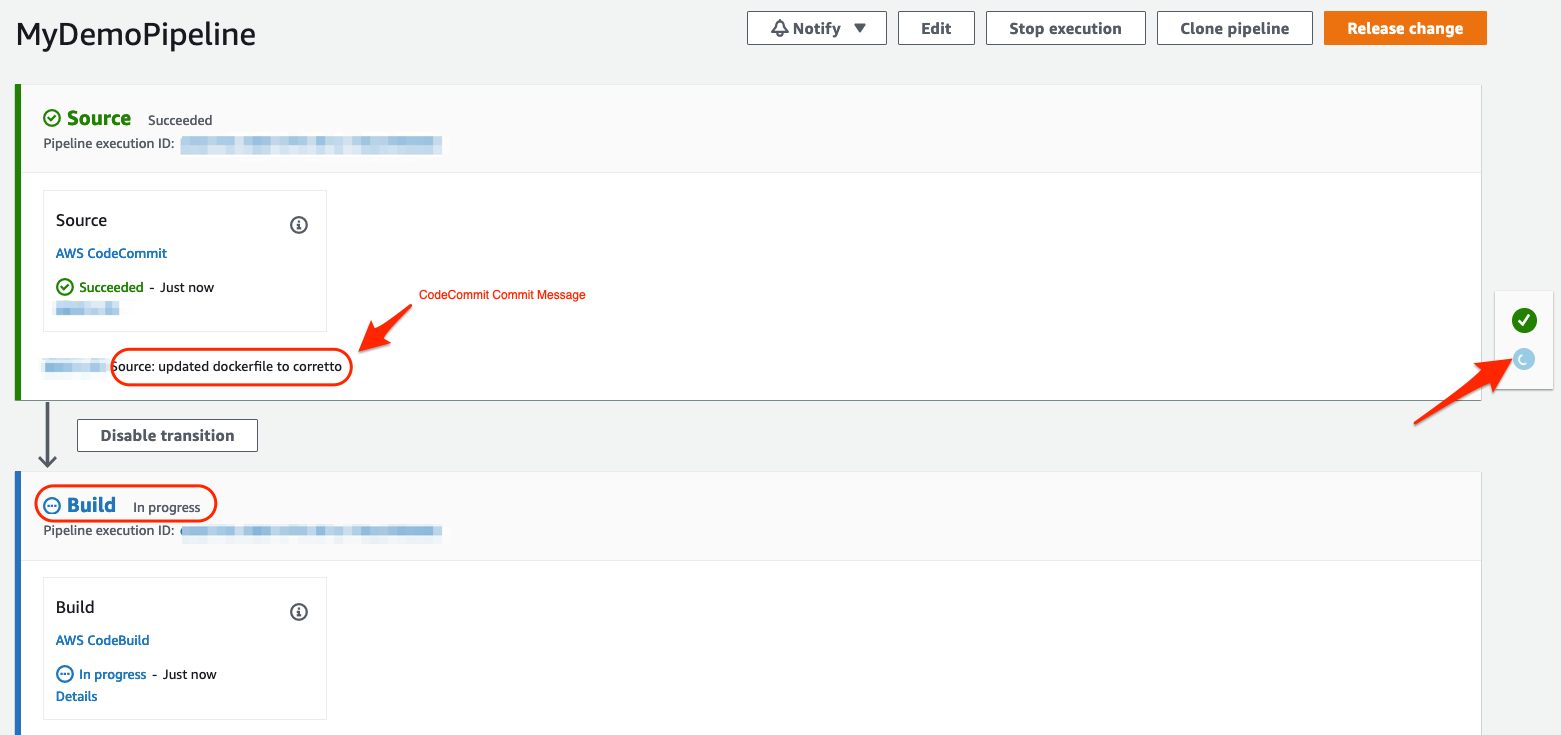
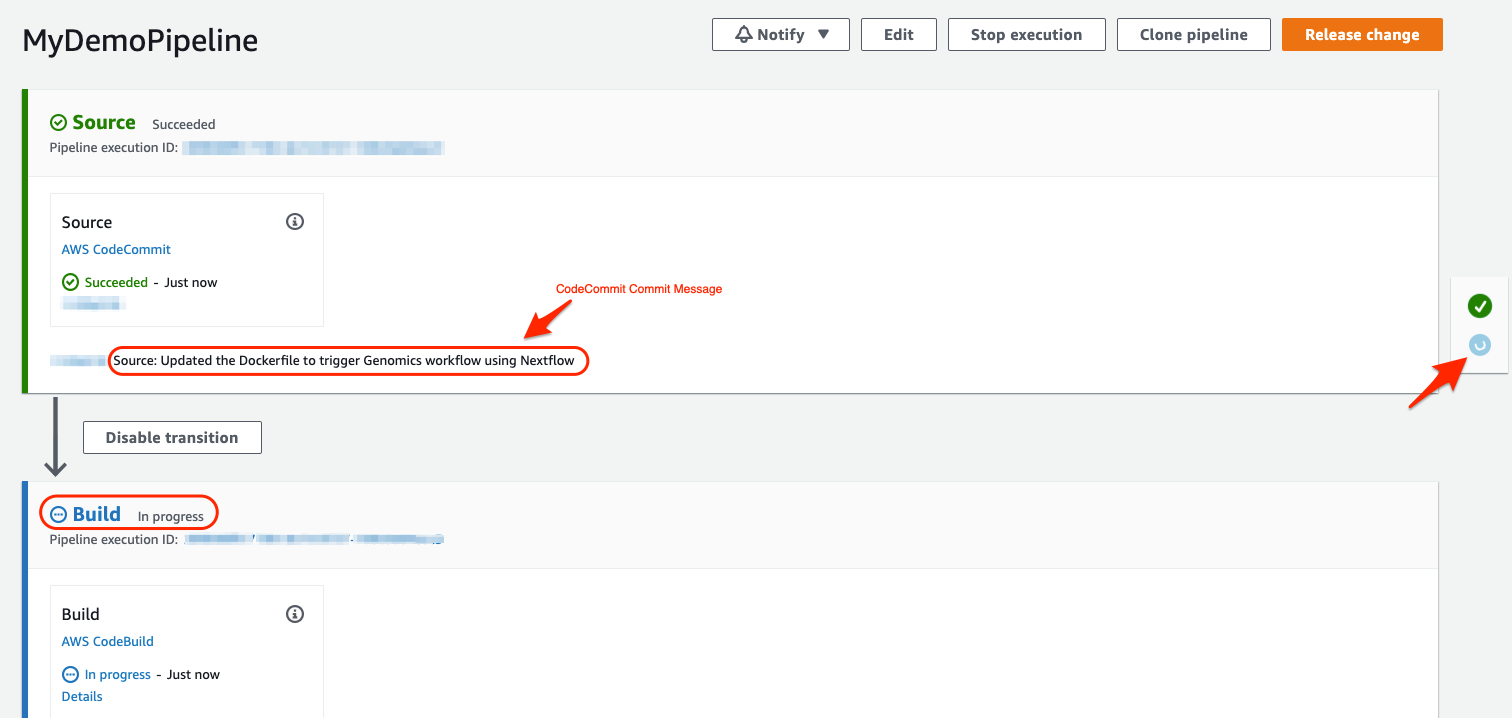
Updated the Lab3 based on feedback

diff --git a/content/04-cicd-pipeline/_index.md b/content/04-cicd-pipeline/_index.md
@@ -8,36 +8,40 @@ tags: ["CI/CD", "AWS Developer Tools", "DevOps"]
 
 ![devops_logo](/images/cicd/devops-logo.png)
 
+HPC resources have complex and dynamic software needs that are challenging to manage and maintain. Users often want the latest software available for their research and development which drives the need for frequent installation and updates. Administrators currently address these complex software needs with package managers such as Lmod, Easybuild or Spack. However, even with these tools software management in an HPC environment includes manual and error-prone steps. Continuous integration, delivery, and deployment (CICD) is widely used in DevOps communities, as it allows to deploy rapidly-changing hardware and software resources. One can build a CICD pipeline to automatically build and/or deploy their HPC application either in the form of containers or as a custom image with all the software dependencies installed. Integrating CICD practices into HPC workflows increases the potential for delivering high quality and reliable software. 
+
+
 [AWS Developer Tools](https://aws.amazon.com/products/developer-tools/) provides a list of services to host code, build, test, and deploy your applications quickly and effectively.  AWS services offered as part of the AWS Developer Tools suite helps remove the undifferentiated heavy lifting associated with DevOps adaptation and software development. You can build a continuous integration and delivery capability without managing servers or build nodes, and leverage Infrastructure as Code to provision and manage your cloud resources in a consistent and repeatable manner.
 
-### Benefits
-#### Minimize downtime
-Build highly available applications on a resilient cloud infrastructure and enable your teams to respond, adapt, and recover quickly from unexpected events.
+##### Benefits
++ **Minimize downtime**
 
-#### Automate CI/CD pipelines & Release software faster
+	Build highly available applications on a resilient cloud infrastructure and enable your teams to respond, adapt, and recover quickly from unexpected events.
 
-Remove error-prone manual processes and eliminate the need to babysit software releases. Use software release pipelines that encompass build, test, and deployment.
++ **Automate CI/CD pipelines & Release software faster**
 
-#### Increase developer productivity
+	Remove error-prone manual processes and eliminate the need to babysit software releases. Use software release pipelines that encompass build, test, and deployment.
 
-Manage services, provision resources, and automate development tasks without switching context or leaving your editor.
++ **Increase developer productivity**
 
-#### Monitor operations
+	Manage services, provision resources, and automate development tasks without switching context or leaving your editor.
 
-Build an observability dashboard to gain instant and continuous insight into your system’s operations.
++ **Monitor operations**
 
-#### Test and automate infrastructure
+	Build an observability dashboard to gain instant and continuous insight into your system’s operations.
 
-Combine infrastructure as code (IaC) with version control and automated, continuous integration to bring scalability and consistency to provisioning and management.
++ **Test and automate infrastructure**
+
+	Combine infrastructure as code (IaC) with version control and automated, continuous integration to bring scalability and consistency to provisioning and management.
 
 {{% notice info %}}This lab requires an AWS Cloud9 IDE. If you do not have an AWS Cloud9 IDE set up, complete sections *a. Sign in to the Console* through *d. Work with the AWS CLI* in the [**Getting Started in the Cloud**](/02-aws-getting-started.html) workshop.
 {{% /notice %}}
 
 In this lab, you are introduced to [AWS Developer Tools](https://aws.amazon.com/products/developer-tools/) and how to use services like AWS CodeCommit, AWS CodeBuild and AWS CodePipeline to automate application deployment with containers, CI/CD pipelines and container orchestrators . This workshop includes the following steps:
 
-- Create a repository in AWS CodeCommit
-- Create a build environment using AWS CodeBuild
-- Create a pipeline using AWS CodePipeline
-- Automate the build process with repository update
+1. Create a repository in AWS CodeCommit
+2. Create a build environment using AWS CodeBuild
+3. Create a pipeline using AWS CodePipeline
+4. Automate the build process with repository update
 
 

diff --git a/content/04-cicd-pipeline/02-codecommit-repo.md b/content/04-cicd-pipeline/02-codecommit-repo.md
@@ -9,35 +9,36 @@ tags = ["tutorial", "DeveloperTools", "CodeCommit"]
 {{% /notice %}}
 
 1. In the AWS Management Console search bar, type and select **Cloud9**.
-
+	
 2. Choose **open IDE** for the Cloud9 instance set up previously. It may take a few moments for the IDE to open. AWS Cloud9 stops and restarts the instance so that you do not pay compute charges when no longer using the Cloud9 IDE.
 
-3. Next, we'll use the AWS CLI to create a Git repository in [AWS CodeCommit](https://aws.amazon.com/codecommit/) and clone the empty repo in your Cloud9 environment.
+3. Next, we'll use the AWS Command Line Interface (CLI) to create a Git repository in [AWS CodeCommit](https://aws.amazon.com/codecommit/) and clone the empty repo in your Cloud9 environment.
 
-1. First verify AWS CLI is installed:
+4. Set AWS Region
 
 ```bash
-aws --version
+AWS_REGION=$(curl --silent http://169.254.169.254/latest/meta-data/placement/region)
+echo "export AWS_REGION=${AWS_REGION}"
 ```
 
-2. Next create your CodeCommit Repo:
+5. Next create your CodeCommit Repo:
 
-AWS CodeCommit is a secure, highly scalable, managed source control service that hosts private Git repositories.
+[AWS CodeCommit](https://aws.amazon.com/codecommit/) is a secure, highly scalable, managed source control service that hosts private Git repositories.
 
 ```bash
-aws codecommit create-repository --repository-name MyDemoRepo --repository-description "My demonstration repository" --tags Team=SC21
+aws codecommit create-repository --repository-name MyDemoRepo --repository-description "My demonstration repository" --tags Team=SC21 --region $AWS_REGION
 ```
 
-3. Get repository URL to clone:
+6. Get repository URL to clone:
 
 ```bash
-REPOURL=$(aws codecommit get-repository --repository-name MyDemoRepo --query repositoryMetadata.cloneUrlHttp --output text)
+REPOURL=$(aws codecommit get-repository --repository-name MyDemoRepo --query repositoryMetadata.cloneUrlHttp --output text --region $AWS_REGION)
 echo $REPOURL
 ```
 
 Verify `echo $REPOURL` outputs a repo url like: `https://git-codecommit.<region>.amazonaws.com/v1/repos/MyDemoRepo`
 
-4. Clone the repository in your Cloud9 terminal and cd into it:
+7. Clone the repository in your Cloud9 terminal and cd into it:
 
 ```bash
 $ git clone $REPOURL
@@ -47,7 +48,7 @@ Unpacking objects: 100% (4/4), 681 bytes | 227.00 KiB/s, done.
 $ cd MyDemoRepo/
 ```
 
-5. Now let's update the default branch from **master** to **main**:
+8. Now let's update the default branch from **master** to **main**:
 ```
 $ git branch -m master main
 ```

diff --git a/content/04-cicd-pipeline/03-docker-buildspec.md b/content/04-cicd-pipeline/03-docker-buildspec.md
@@ -7,16 +7,16 @@ tags = ["tutorial", "DeveloperTools", "CodeCommit"]
 
 In this section, you will create a Docker container for the application and a buildspec file in the CodeCommit repository created in the previous section
 
-A [buildspec](https://docs.aws.amazon.com/codebuild/latest/userguide/build-spec-ref.html) is a collection of build commands and related settings in YAML format. This file is used by [AWS CodeBuild](https://docs.aws.amazon.com/codebuild/latest/userguide/welcome.html) to automatically create an updated version of the container upon code changes. In the next section, you will dive deeper on what is CodeBuild and how to set it up as part of a pipeline. 
+A [buildspec](https://docs.aws.amazon.com/codebuild/latest/userguide/build-spec-ref.html) is a collection of build commands and related settings in YAML format. This file is used by [AWS CodeBuild](https://docs.aws.amazon.com/codebuild/latest/userguide/welcome.html) to automatically create an updated version of the container upon code changes. The buildspec file informs CodeBuild of all the actions that should be taken during a build run for your application. In the next section, you will dive deeper on what is CodeBuild and how to set it up as part of a pipeline. 
 
 
-1. cd to the CodeCommit repository created in the previous section:
+1. Confirm you are in the **MyDemoRepo** repository, if not enter into it:
 
 ```bash
 cd MyDemoRepo
 ```
 
-2. Create a Docker container for the application. We're going to use the [Amazon Linux container](https://gallery.ecr.aws/amazonlinux/amazonlinux) from [Amazon Elastic Container Registry (ECR) Public Gallery](https://docs.aws.amazon.com/AmazonECR/latest/public/public-gallery.html). Amazon Linux Docker container images contain a subset of the packages in the images for use on Amazon EC2 and as VMs in on-premises scenarios. To install additional packages, use yum.
+2. Create a Docker container for the application. We're going to use the [Amazon Linux container](https://gallery.ecr.aws/amazonlinux/amazonlinux) from [Amazon Elastic Container Registry (ECR) Public Gallery](https://docs.aws.amazon.com/AmazonECR/latest/public/public-gallery.html). Amazon Linux Docker container images contain a subset of the packages in the images for use on Amazon EC2 and as VMs in on-premises scenarios.
 
 ```bash
 cat > Dockerfile << EOF

diff --git a/content/04-cicd-pipeline/06-updatebuild.md b/content/04-cicd-pipeline/06-updatebuild.md
@@ -44,29 +44,30 @@ CMD ["/usr/local/bin/entrypoint.sh"]
 EOF
 ```
 
-3. Copy the entrypoint file (entrypoint.sh) from the S3 bucket
+3. Copy the entrypoint file (**entrypoint.sh**) from the S3 bucket and make it an executable
 ```bash
 aws s3 cp s3://sc21-hpc-labs/entrypoint.sh .
+chmod +x entrypoint.sh
 ```
 
-3. Now we will update and push this file to the created codecommit repository
+4. Now we will update and push this file to the created codecommit repository
 ```bash
-git add Dockerfile
+git add Dockerfile entrypoint.sh
 git commit -m "Updated the Dockerfile to trigger Genomics workflow using Nextflow" 
-git push
+git push origin main
 ```
 
-4. In the AWS Management Console search bar, type and select **CodePipeline**. Click on the **MyDemoPipeline** that you created in the previous section. You should now see that the CodeCommit push above should have triggered the build via CodeBuild automatically. 
+5. In the AWS Management Console search bar, type and select **CodePipeline**. Click on the **MyDemoPipeline** that you created in the previous section. You should now see that the CodeCommit push above should have triggered the build via CodeBuild automatically. 
 ![AWS CodePipeline](/images/cicd/codepipeline-6.png)
 
-5. Click on the AWS CodeBuild deep link from the Build stage of the CodePipeline. This will take you to the CodeBuild project that you created and will display the Build logs.
+6. Click on the AWS CodeBuild deep link from the Build stage of the CodePipeline. This will take you to the CodeBuild project that you created and will display the Build logs.
 ![AWS CodePipeline](/images/cicd/codepipeline-7.png)
 
 
-6. Click on the **Tail logs** to see the on-going or completed build process. This is showcasing every step of the build process as provided in your **buildspec.yml** file.
+7. Click on the **Tail logs** to see the on-going or completed build process. This is showcasing every step of the build process as provided in your **buildspec.yml** file.
 ![AWS CodePipeline](/images/cicd/codepipeline-8.png)
 
-7. In addition to the build the pipeline is also pushing the built container image to the container registry in Amazon ECR. 
+8. In addition to the build the pipeline is also pushing the built container image to the container registry in Amazon ECR. 
 
 
 

diff --git a/content/04-cicd-pipeline/05-codepipeline.md b/content/04-cicd-pipeline/05-codepipeline.md
@@ -20,7 +20,7 @@ In this section, you will create a pipeline with a source and build stage to aut
 3. In Step 1 **Choose pipeline settings**, enter the Pipeline name as **MyDemoPipeline**. Allow AWS CodePipeline to create a service role to be used with this pipeline. The Role name will default to the following **AWSCodePipelineServiceRole-<region>-<pipelinename>**. Click **Next**
 ![AWS CodePipeline](/images/cicd/codepipeline-1.png)
 
-4. In Step 2 **Add source stage**, select **AWS CodeCommit** as your Source provider. Choose **MyDemoRepo** as your repository name where you have pushed your source code. Choose **master** for Branch name. 
+4. In Step 2 **Add source stage**, select **AWS CodeCommit** as your Source provider. Choose **MyDemoRepo** as your repository name where you have pushed your source code. Choose **main** for Branch name. 
 
 5. Keep the default selection for the **Change detection options** and **Output artifact format**. Click **Next**
 ![AWS CodePipeline](/images/cicd/codepipeline-2.png)
@@ -33,6 +33,6 @@ In this section, you will create a pipeline with a source and build stage to aut
 
 8. Review your pipeline settings and select **Create pipeline**
  
-9. Your pipeline should execute and if successful should display a message as shown below
+9. Your pipeline should execute. It will take a few mins to execute the pipeline and and if successful should display a message as shown below
 ![AWS CodePipeline](/images/cicd/codepipeline-5.png)
 

diff --git a/content/04-cicd-pipeline/04-codebuild.md b/content/04-cicd-pipeline/04-codebuild.md
@@ -30,10 +30,10 @@ With CodeBuild, you don’t need to provision, manage, and scale your own build 
 
 ![AWS CodeBuild](/images/cicd/code-build-3.png)
 
-7. In the **Environment** section, expand the **Additional configuration** section 
-  	- Under the **Environment variables** enter the Name **REPOSITORY_URI** which should point to the Amazon ECR repository created in the Lab 3.
+7. In the **Environment** section, expand the **Additional configuration** section. Keep all settings as default except the following:
+  	- Under the **Environment variables** enter the Name **REPOSITORY_URI** which should point to the Amazon ECR repository created in the Lab 2.
 	- In the **Value** provide the Amazon ECR repository URI. Keep the Type as default **Plaintext**
-	- You can obtain the Amazon ECR repository URI by running the below CLI command on Cloud9, this repo comes from [Lab 2]
+	- You can obtain the Amazon ECR repository URI by running the below CLI command on Cloud9, this repo comes from Lab 2.
  
 ```bash
 REPO_NAME=sc21-container

diff --git a/content/04-cicd-pipeline/07-conclusion.md b/content/04-cicd-pipeline/07-conclusion.md
@@ -1,5 +1,5 @@
 +++
-title = "e. Conclusion"
+title = "f. Conclusion"
 date = 2021-09-30T10:46:30-04:00
 weight = 80
 tags = ["tutorial", "DeveloperTools", "CodePipeline", "CodeBuild", "CI/CD"]
